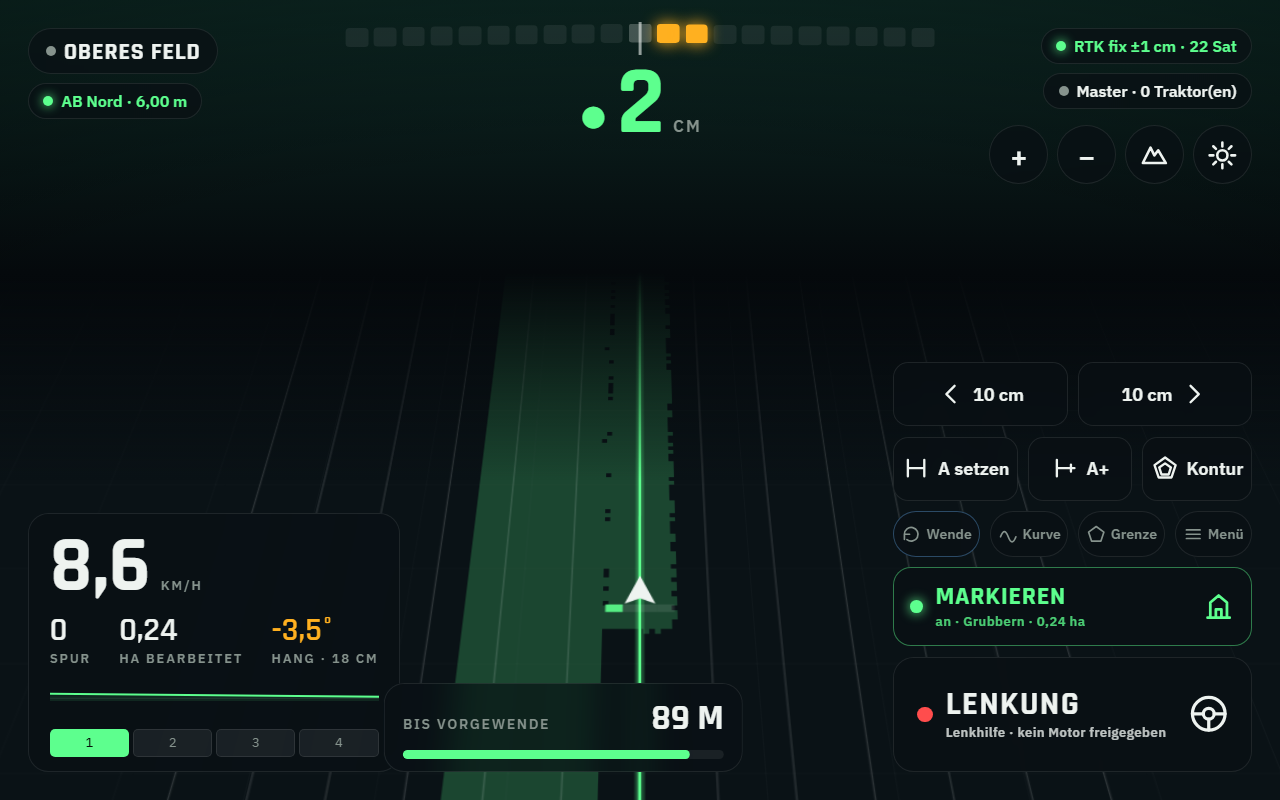
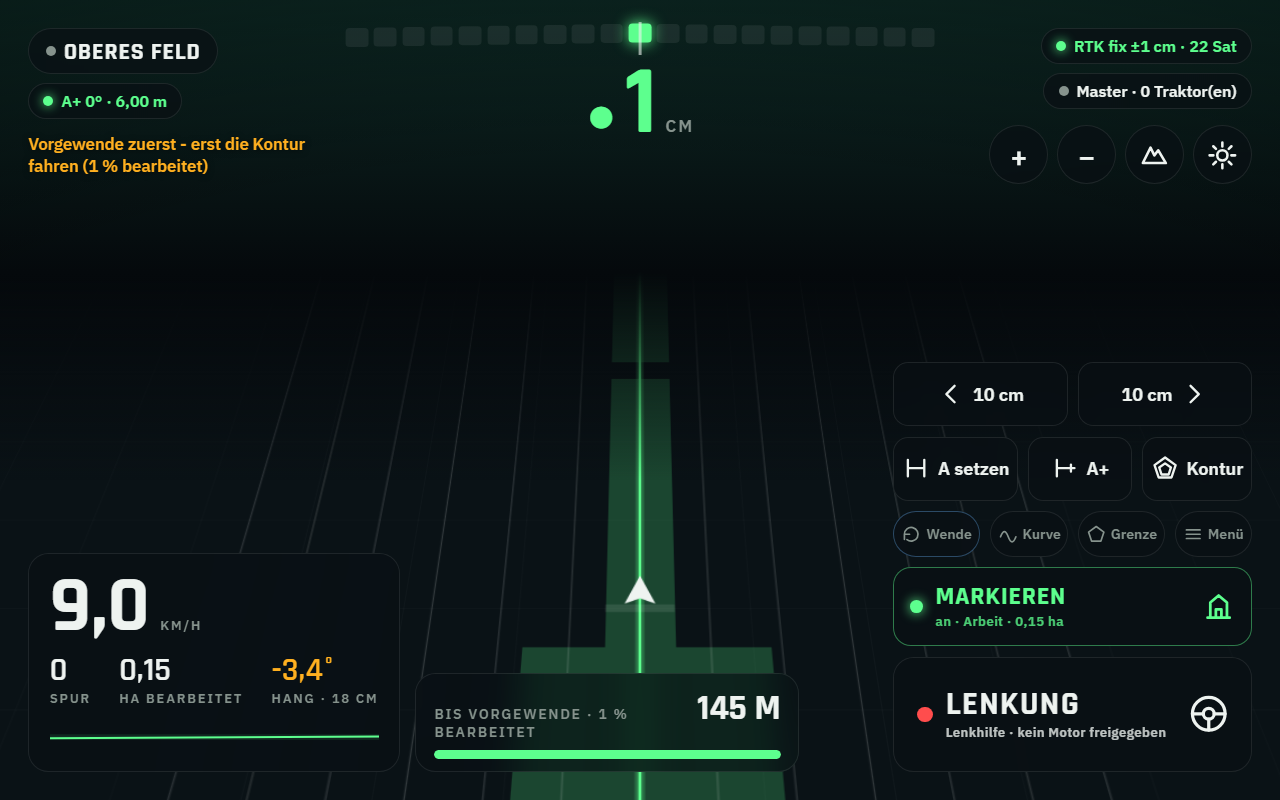
fix(agripilot): Spuren-Reiter mit Saisonspur, Tagfarben im Menü, verwaiste Arbeiten, neue Doku-Bilder
- Spuren-Reiter nutzt dieselbe Zeile wie die Liste unter dem Feld (Laden,
  Als Saisonspur, Umbenennen, Löschen); ohne geladenes Feld keine Liste mehr
  (die Anfrage ohne field_id gab die Spuren aller Felder zurück).
- Menü über #menu=… beim Laden: Listen werden nach dem ersten Zustandsbild
  neu gefüllt - vorher wussten sie nichts vom geladenen Feld.
- Menüfarben aus dem Thema statt fester Nachtwerte: aktive Zeile, geänderte
  Einstellung, Checklisten-Nummern, Gefahr-Knopf waren am Tag dunkel auf dunkel.
- Beim Start werden offene Arbeiten dieses Geräts abgeschlossen (Zündung aus
  statt „Arbeit beenden“) - sie standen sonst ewig als „läuft“ in der Liste.
  Fremde Geräte bleiben unangetastet. Test dazu, 237 Tests.
- Doku-Bilder (Kabine, Aufträge, System) neu aufgenommen; graphify-out ignoriert.

diff --git a/gps/frontend/app.js b/gps/frontend/app.js
@@ -113,6 +113,9 @@ function onState(data) {
   const before = previous && previous.field ? previous.field.id : null;
   const now = data.field ? data.field.id : null;
   if (previous && before !== now) { clearCells(); state.trail = []; refreshLists(); }
+  // Erstes Bild bei offenem Menü (Aufruf über #menu=…): die Listen wurden vor
+  // dem Zustand gefüllt und wussten noch nichts vom geladenen Feld.
+  if (!previous && !el('sheet').hidden) refreshLists();
 
   updateHud(data);
 }
@@ -1104,7 +1107,8 @@ async function refreshLists() {
   }
   if (active === 'lines') {
     const fieldId = state.live && state.live.field ? state.live.field.id : '';
-    renderLines(await (await fetch(`/api/lines?field_id=${fieldId}`)).json());
+    // Ohne Feld keine Liste: die Anfrage ohne field_id gäbe die Spuren aller Felder.
+    renderLines(fieldId ? await (await fetch(`/api/lines?field_id=${fieldId}`)).json() : []);
   }
   if (active === 'jobs') {
     const [jobs, fields] = await Promise.all([
@@ -1167,79 +1171,70 @@ function renderFields(fields, lines) {
 function spurenListe(field, spuren, jahr) {
   const box = document.createElement('div');
   box.className = 'unterliste';
-  const currentId = state.live && state.live.line ? state.live.line.id : null;
-  const feldGeladen = state.live && state.live.field && state.live.field.id === field.id;
-  spuren.forEach((line) => {
-    const saison = line.saison === jahr && line.fahrgasse_m > 0;
-    const row = item({
-      active: line.id === currentId,
-      title: line.name,
-      sub: `${line.mode === 'ab' ? 'AB-Linie' : 'Kurve'} · Abstand ${line.spacing_m.toFixed(2)} m` +
-           (line.fahrgasse_m > 0 ? ` · Fahrgassen alle ${line.fahrgasse_m.toFixed(0)} m` +
-             (line.saison ? ` (Saison ${line.saison})` : '') : '') +
-           (saison ? ' · Saisonspur' : ''),
-      actions: [
-        ['Laden', async () => {
-          // Die Spur gehört zu ihrem Feld: erst das Feld, dann die Spur.
-          if (!feldGeladen && !(await api('POST', `/api/fields/${field.id}/load`))) return;
-          if (await api('POST', `/api/lines/${line.id}/load`)) {
-            toast(`Spur "${line.name}" aktiv`); el('sheet').hidden = true;
-          }
-        }],
-        [saison ? 'Saisonspur ✓' : 'Als Saisonspur', async () => {
-          const vorgabe = line.fahrgasse_m > 0 ? line.fahrgasse_m : Math.max(line.spacing_m, 12);
-          const eingabe = prompt(
-            `Fahrgassenabstand in Metern für "${line.name}" (Saison ${jahr}).\n` +
-            `0 = keine Fahrgassen, Spur ist dann keine Saisonspur mehr.`, vorgabe.toFixed(0));
-          if (eingabe === null) return;
-          const abstand = parseFloat(eingabe.replace(',', '.'));
-          if (Number.isNaN(abstand) || abstand < 0) { toast('Bitte eine Zahl ab 0 eingeben', true); return; }
-          if (await api('POST', `/api/lines/${line.id}`, { fahrgasse_m: abstand, saison: jahr })) {
-            toast(abstand > 0 ? `Saisonspur ${jahr}: Fahrgassen alle ${abstand} m` : 'Keine Fahrgassen mehr');
-            refreshLists();
-          }
-        }],
-        ['Umbenennen', async () => {
-          const name = prompt('Neuer Name der Spur', line.name);
-          if (name === null || !name.trim()) return;
-          if (await api('POST', `/api/lines/${line.id}`, { name: name.trim() })) refreshLists();
-        }],
-        ['Löschen', async () => {
-          if (!confirm(`Spur "${line.name}" löschen?`)) return;
-          await api('DELETE', `/api/lines/${line.id}`); refreshLists();
-        }],
-      ],
-    });
-    if (saison) row.querySelectorAll('.actions button')[1].classList.add('an');
-    box.appendChild(row);
-  });
+  spuren.forEach((line) => box.appendChild(spurZeile(field.id, line, jahr)));
   if (!spuren.length) box.innerHTML = '<p class="note">Noch keine Spur für dieses Feld – A/B, A+ oder Kurve in der Kabine anlegen.</p>';
   return box;
 }
 
+/* Eine Spur als Zeile - dieselbe unter dem Feld wie im Reiter Spuren, damit
+ * die Saisonspur an beiden Stellen gesetzt werden kann. */
+function spurZeile(fieldId, line, jahr) {
+  const currentId = state.live && state.live.line ? state.live.line.id : null;
+  const feldGeladen = state.live && state.live.field && state.live.field.id === fieldId;
+  const saison = line.saison === jahr && line.fahrgasse_m > 0;
+  const row = item({
+    active: line.id === currentId,
+    title: line.name,
+    sub: `${line.mode === 'ab' ? 'AB-Linie' : 'Kurve'} · Abstand ${line.spacing_m.toFixed(2)} m` +
+         (line.fahrgasse_m > 0 ? ` · Fahrgassen alle ${line.fahrgasse_m.toFixed(0)} m` +
+           (line.saison ? ` (Saison ${line.saison})` : '') : '') +
+         (saison ? ' · Saisonspur' : ''),
+    actions: [
+      ['Laden', async () => {
+        // Die Spur gehört zu ihrem Feld: erst das Feld, dann die Spur.
+        if (!feldGeladen && !(await api('POST', `/api/fields/${fieldId}/load`))) return;
+        if (await api('POST', `/api/lines/${line.id}/load`)) {
+          toast(`Spur "${line.name}" aktiv`); el('sheet').hidden = true;
+        }
+      }],
+      [saison ? 'Saisonspur ✓' : 'Als Saisonspur', async () => {
+        const vorgabe = line.fahrgasse_m > 0 ? line.fahrgasse_m : Math.max(line.spacing_m, 12);
+        const eingabe = prompt(
+          `Fahrgassenabstand in Metern für "${line.name}" (Saison ${jahr}).
+` +
+          `0 = keine Fahrgassen, Spur ist dann keine Saisonspur mehr.`, vorgabe.toFixed(0));
+        if (eingabe === null) return;
+        const abstand = parseFloat(eingabe.replace(',', '.'));
+        if (Number.isNaN(abstand) || abstand < 0) { toast('Bitte eine Zahl ab 0 eingeben', true); return; }
+        if (await api('POST', `/api/lines/${line.id}`, { fahrgasse_m: abstand, saison: jahr })) {
+          toast(abstand > 0 ? `Saisonspur ${jahr}: Fahrgassen alle ${abstand} m` : 'Keine Fahrgassen mehr');
+          refreshLists();
+        }
+      }],
+      ['Umbenennen', async () => {
+        const name = prompt('Neuer Name der Spur', line.name);
+        if (name === null || !name.trim()) return;
+        if (await api('POST', `/api/lines/${line.id}`, { name: name.trim() })) refreshLists();
+      }],
+      ['Löschen', async () => {
+        if (!confirm(`Spur "${line.name}" löschen?`)) return;
+        await api('DELETE', `/api/lines/${line.id}`); refreshLists();
+      }],
+    ],
+  });
+  if (saison) row.querySelectorAll('.actions button')[1].classList.add('an');
+  return row;
+}
+
 function renderLines(lines) {
   const host = el('lineList');
-  const currentId = state.live && state.live.line ? state.live.line.id : null;
+  const fieldId = state.live && state.live.field ? state.live.field.id : null;
+  const jahr = new Date().getFullYear();
   host.innerHTML = '';
-  lines.forEach((line) => {
-    host.appendChild(item({
-      active: line.id === currentId,
-      title: line.name,
-      sub: `${line.mode === 'ab' ? 'AB-Linie' : 'Kurve'} · Abstand ${line.spacing_m.toFixed(2)} m`,
-      actions: [
-        ['Laden', async () => {
-          if (await api('POST', `/api/lines/${line.id}/load`)) {
-            toast(`Spur "${line.name}" aktiv`); el('sheet').hidden = true;
-          }
-        }],
-        ['Löschen', async () => {
-          await api('DELETE', `/api/lines/${line.id}`); refreshLists();
-        }],
-      ],
-    }));
-  });
-  if (!lines.length) host.innerHTML =
-    '<p class="note">Für dieses Feld gibt es noch keine Spur.</p>';
+  lines.forEach((line) => host.appendChild(spurZeile(fieldId, line, jahr)));
+  if (!lines.length) host.innerHTML = fieldId
+    ? '<p class="note">Für dieses Feld gibt es noch keine Spur.</p>'
+    : '<p class="note">Kein Feld geladen – Spuren gehören zu ihrem Feld (Menü → Felder).</p>';
 }
 
 function renderJobs(jobs, fields) {

diff --git a/gps/frontend/style.css b/gps/frontend/style.css
@@ -259,7 +259,7 @@ button, .button {
   min-height: 44px;
 }
 button.primary, .button.primary { background: var(--blue-solid); border-color: var(--blue-solid); color: #fff; }
-button.danger { background: #3a1416; border-color: var(--red); color: #ff7b72; }
+button.danger { background: color-mix(in srgb, var(--red) 16%, var(--panel)); border-color: var(--red); color: var(--red); }
 .note { color: var(--muted); font-size: 13px; line-height: 1.5; margin: 6px 0 14px; }
 
 .grid { display: grid; grid-template-columns: repeat(auto-fit, minmax(190px, 1fr)); gap: 10px; }
@@ -267,7 +267,7 @@ button.danger { background: #3a1416; border-color: var(--red); color: #ff7b72; }
 .switch { display: flex; flex-direction: row; align-items: center; gap: 8px; font-size: 14px; color: var(--text); }
 /* Zwischenüberschrift in einem Reiter, der zwei Dinge nebeneinander zeigt. */
 .abschnitt { margin: 22px 0 8px; font-size: 15px; color: var(--muted);
-             font-weight: 600; border-top: 1px solid #232c38; padding-top: 16px; }
+             font-weight: 600; border-top: 1px solid var(--line); padding-top: 16px; }
 .switch input { width: 22px; height: 22px; }
 
 .list { display: flex; flex-direction: column; gap: 8px; }
@@ -275,7 +275,9 @@ button.danger { background: #3a1416; border-color: var(--red); color: #ff7b72; }
   display: flex; align-items: center; gap: 12px; padding: 12px 14px;
   background: var(--panel); border: 1px solid var(--line); border-radius: 10px;
 }
-.item.active { border-color: var(--green); background: #12241a; }
+/* Tag wie Nacht: der Grünstich kommt aus dem Grün des Themas, nicht aus einer
+   festen Nachtfarbe - sonst steht am Tag dunkle Schrift auf dunklem Grün. */
+.item.active { border-color: var(--green); background: color-mix(in srgb, var(--green) 12%, var(--panel)); }
 .item .main { flex: 1; min-width: 0; }
 .item .title { font-size: 16px; font-weight: 600; }
 .item .sub { font-size: 12px; color: var(--muted); margin-top: 2px; }
@@ -316,10 +318,10 @@ label.button { display: inline-flex; align-items: center; cursor: pointer; }
   margin-bottom: 6px; }
 .setting-field .unit { color: var(--muted); font-size: 12px; margin-left: 6px; }
 .setting-field .help { color: var(--muted); font-size: 12px; line-height: 1.5; margin-top: 6px; }
-.setting-field .warn { color: #ff7b72; font-size: 12px; line-height: 1.5; margin-top: 6px; }
-.setting-field .restart { color: #e3b341; font-size: 12px; margin-top: 6px; }
-.setting-field.changed { background: #10243d; }
-.setting-field.changed > label { color: #79c0ff; }
+.setting-field .warn { color: var(--red); font-size: 12px; line-height: 1.5; margin-top: 6px; }
+.setting-field .restart { color: var(--amber); font-size: 12px; margin-top: 6px; }
+.setting-field.changed { background: color-mix(in srgb, var(--blue) 12%, var(--panel)); }
+.setting-field.changed > label { color: var(--blue); }
 
 /* --- Inbetriebnahme --- */
 .progress {
@@ -336,13 +338,13 @@ label.button { display: inline-flex; align-items: center; cursor: pointer; }
   display: flex; align-items: center; justify-content: center;
   font-size: 14px; font-weight: 700; color: var(--muted);
 }
-.step.done .nr { background: #12331d; border-color: var(--green); color: var(--green-bright); }
+.step.done .nr { background: color-mix(in srgb, var(--green) 15%, var(--panel)); border-color: var(--green); color: var(--green-bright); }
 .step.now { border-color: var(--blue); }
-.step.now .nr { background: #10243d; border-color: var(--blue); color: #79c0ff; }
+.step.now .nr { background: color-mix(in srgb, var(--blue) 15%, var(--panel)); border-color: var(--blue); color: var(--blue); }
 .step .why { font-size: 13px; color: var(--muted); line-height: 1.5; margin: 8px 0 0 42px; }
 .step .check { font-size: 13px; margin: 8px 0 0 42px; }
 .step .check.good { color: var(--green-bright); }
-.step .check.bad { color: #ff7b72; }
+.step .check.bad { color: var(--red); }
 .step .check.unknown { color: var(--muted); }
 .step .foot { display: flex; align-items: center; gap: 10px; margin: 10px 0 0 42px; }
 .step .foot .quittung { font-size: 13px; color: var(--text); flex: 1; }

diff --git a/gps/backend/tests/test_agripilot.py b/gps/backend/tests/test_agripilot.py
@@ -2999,6 +2999,30 @@ class SaisonspurTest(unittest.TestCase):
                          [neu["id"], alt["id"]])
 
 
+class VerwaisteArbeitTest(unittest.TestCase):
+    """Zündung aus statt „Arbeit beenden": beim nächsten Start wird die offene
+    Arbeit dieses Geräts abgeschlossen - die eines anderen Traktors nicht."""
+
+    def test_open_jobs_of_this_device_are_closed_at_start(self):
+        from agripilot import config as config_module
+        from agripilot.engine import Engine
+        with tempfile.TemporaryDirectory() as ordner:
+            store = Storage(os.path.join(ordner, "j.db"))
+            try:
+                eigene = store.start_job("feld", "pi-test", "Traktor", "Grubbern")
+                fremde = store.start_job("feld", "pi-anderer", "Fendt", "Säen")
+                config = config_module.load("/kein-solcher-pfad.yaml")
+                config.network.device_id = "pi-test"
+                motor = Engine(config, store)
+                self.assertIsNotNone(store.get_job(eigene["id"])["ended_at"])
+                self.assertIsNone(store.get_job(fremde["id"])["ended_at"])
+                self.assertIn("abgeschlossen", motor.messages[-1])
+                # Beim zweiten Start gibt es nichts mehr zu schließen.
+                self.assertEqual(store.close_orphan_jobs("pi-test"), 0)
+            finally:
+                store.close()
+
+
 # --------------------------------------------------------------- Maschinen
 
 

diff --git a/gps/backend/agripilot/storage.py b/gps/backend/agripilot/storage.py
@@ -290,6 +290,23 @@ class Storage:
             ).fetchall()
         return [_job_row(r) for r in rows]
 
+    def close_orphan_jobs(self, device_id: str) -> int:
+        """Arbeiten dieses Geräts ohne Ende abschließen - Stromausfall, Neustart.
+
+        Der Traktor wird mit dem Zündschlüssel ausgeschaltet, nicht mit „Arbeit
+        beenden". Was dann offen bleibt, stünde ewig als „läuft" in der Liste.
+        Als Ende gilt die letzte Änderung; die Fläche ist, was bis dahin
+        gespeichert war (der Motor sichert unterwegs). Fremde Geräte werden
+        nicht angefasst: deren laufende Arbeit ist vielleicht wirklich am Laufen.
+        """
+        cursor = self.db.execute(
+            """UPDATE jobs SET ended_at=updated_at, updated_at=?
+               WHERE ended_at IS NULL AND deleted=0 AND device_id=?""",
+            (time.time(), device_id),
+        )
+        self.db.commit()
+        return cursor.rowcount
+
     def delete_job(self, job_id: str) -> None:
         self._soft_delete("jobs", job_id)
 

diff --git a/gps/backend/agripilot/engine.py b/gps/backend/agripilot/engine.py
@@ -92,6 +92,11 @@ class Engine:
         self.working_time_s = 0.0
         self.session_started_at = time.time()
         self.messages: list[str] = []
+        # Was beim letzten Mal offen blieb (Zündung aus statt „Arbeit beenden"),
+        # wird jetzt abgeschlossen - sonst steht es ewig als „läuft" in der Liste.
+        verwaist = store.close_orphan_jobs(config.network.device_id)
+        if verwaist:
+            self.note(f"{verwaist} unterbrochene Arbeit(en) vom letzten Mal abgeschlossen")
         self.auto_sections = True
 
         self._track_buffer: list[tuple] = []

diff --git a/gps/README.md b/gps/README.md
@@ -159,7 +159,7 @@ gps/
 cd gps/backend && python3 -m unittest discover -s tests -v
 ```
 
-236 Tests, ohne Zusatzpakete lauffähig. Geprüft wird vor allem, was im Feld Geld
+237 Tests, ohne Zusatzpakete lauffähig. Geprüft wird vor allem, was im Feld Geld
 kostet, wenn es falsch ist: Flächen, das Vorzeichen der Abweichung, der
 Hangausgleich und die Bedingungen, unter denen die Lenkautomatik einschalten
 darf.
